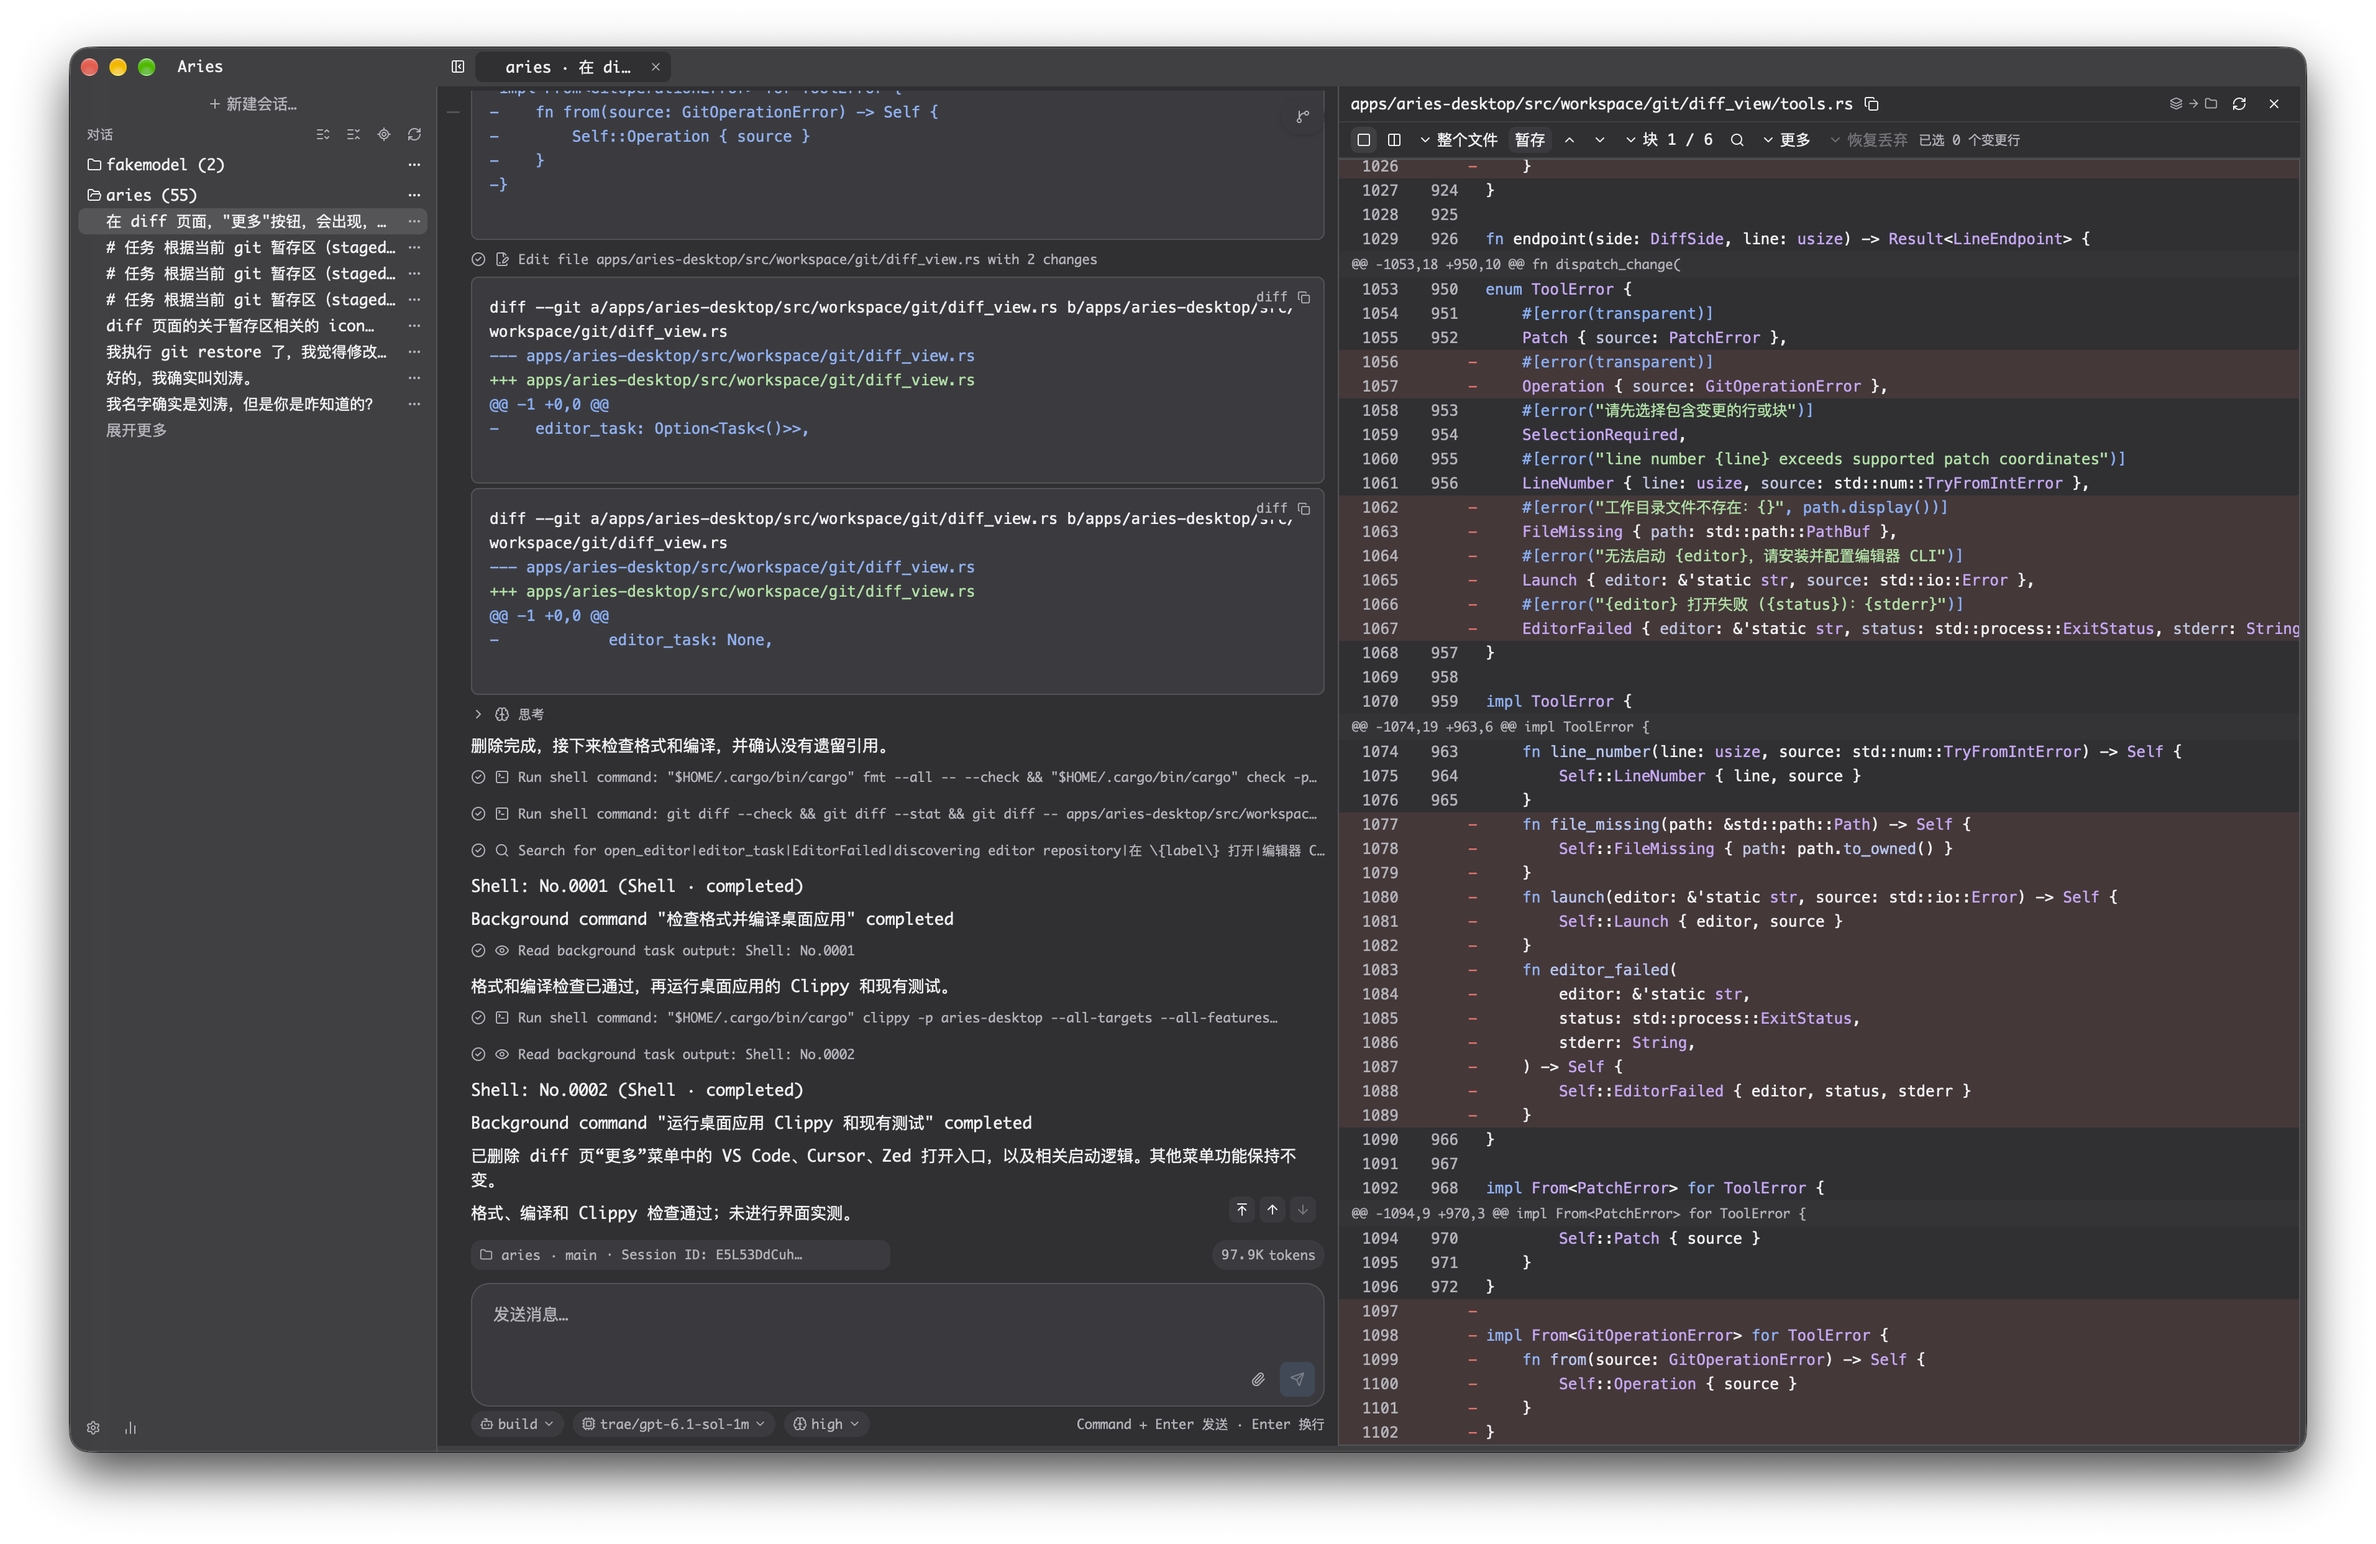
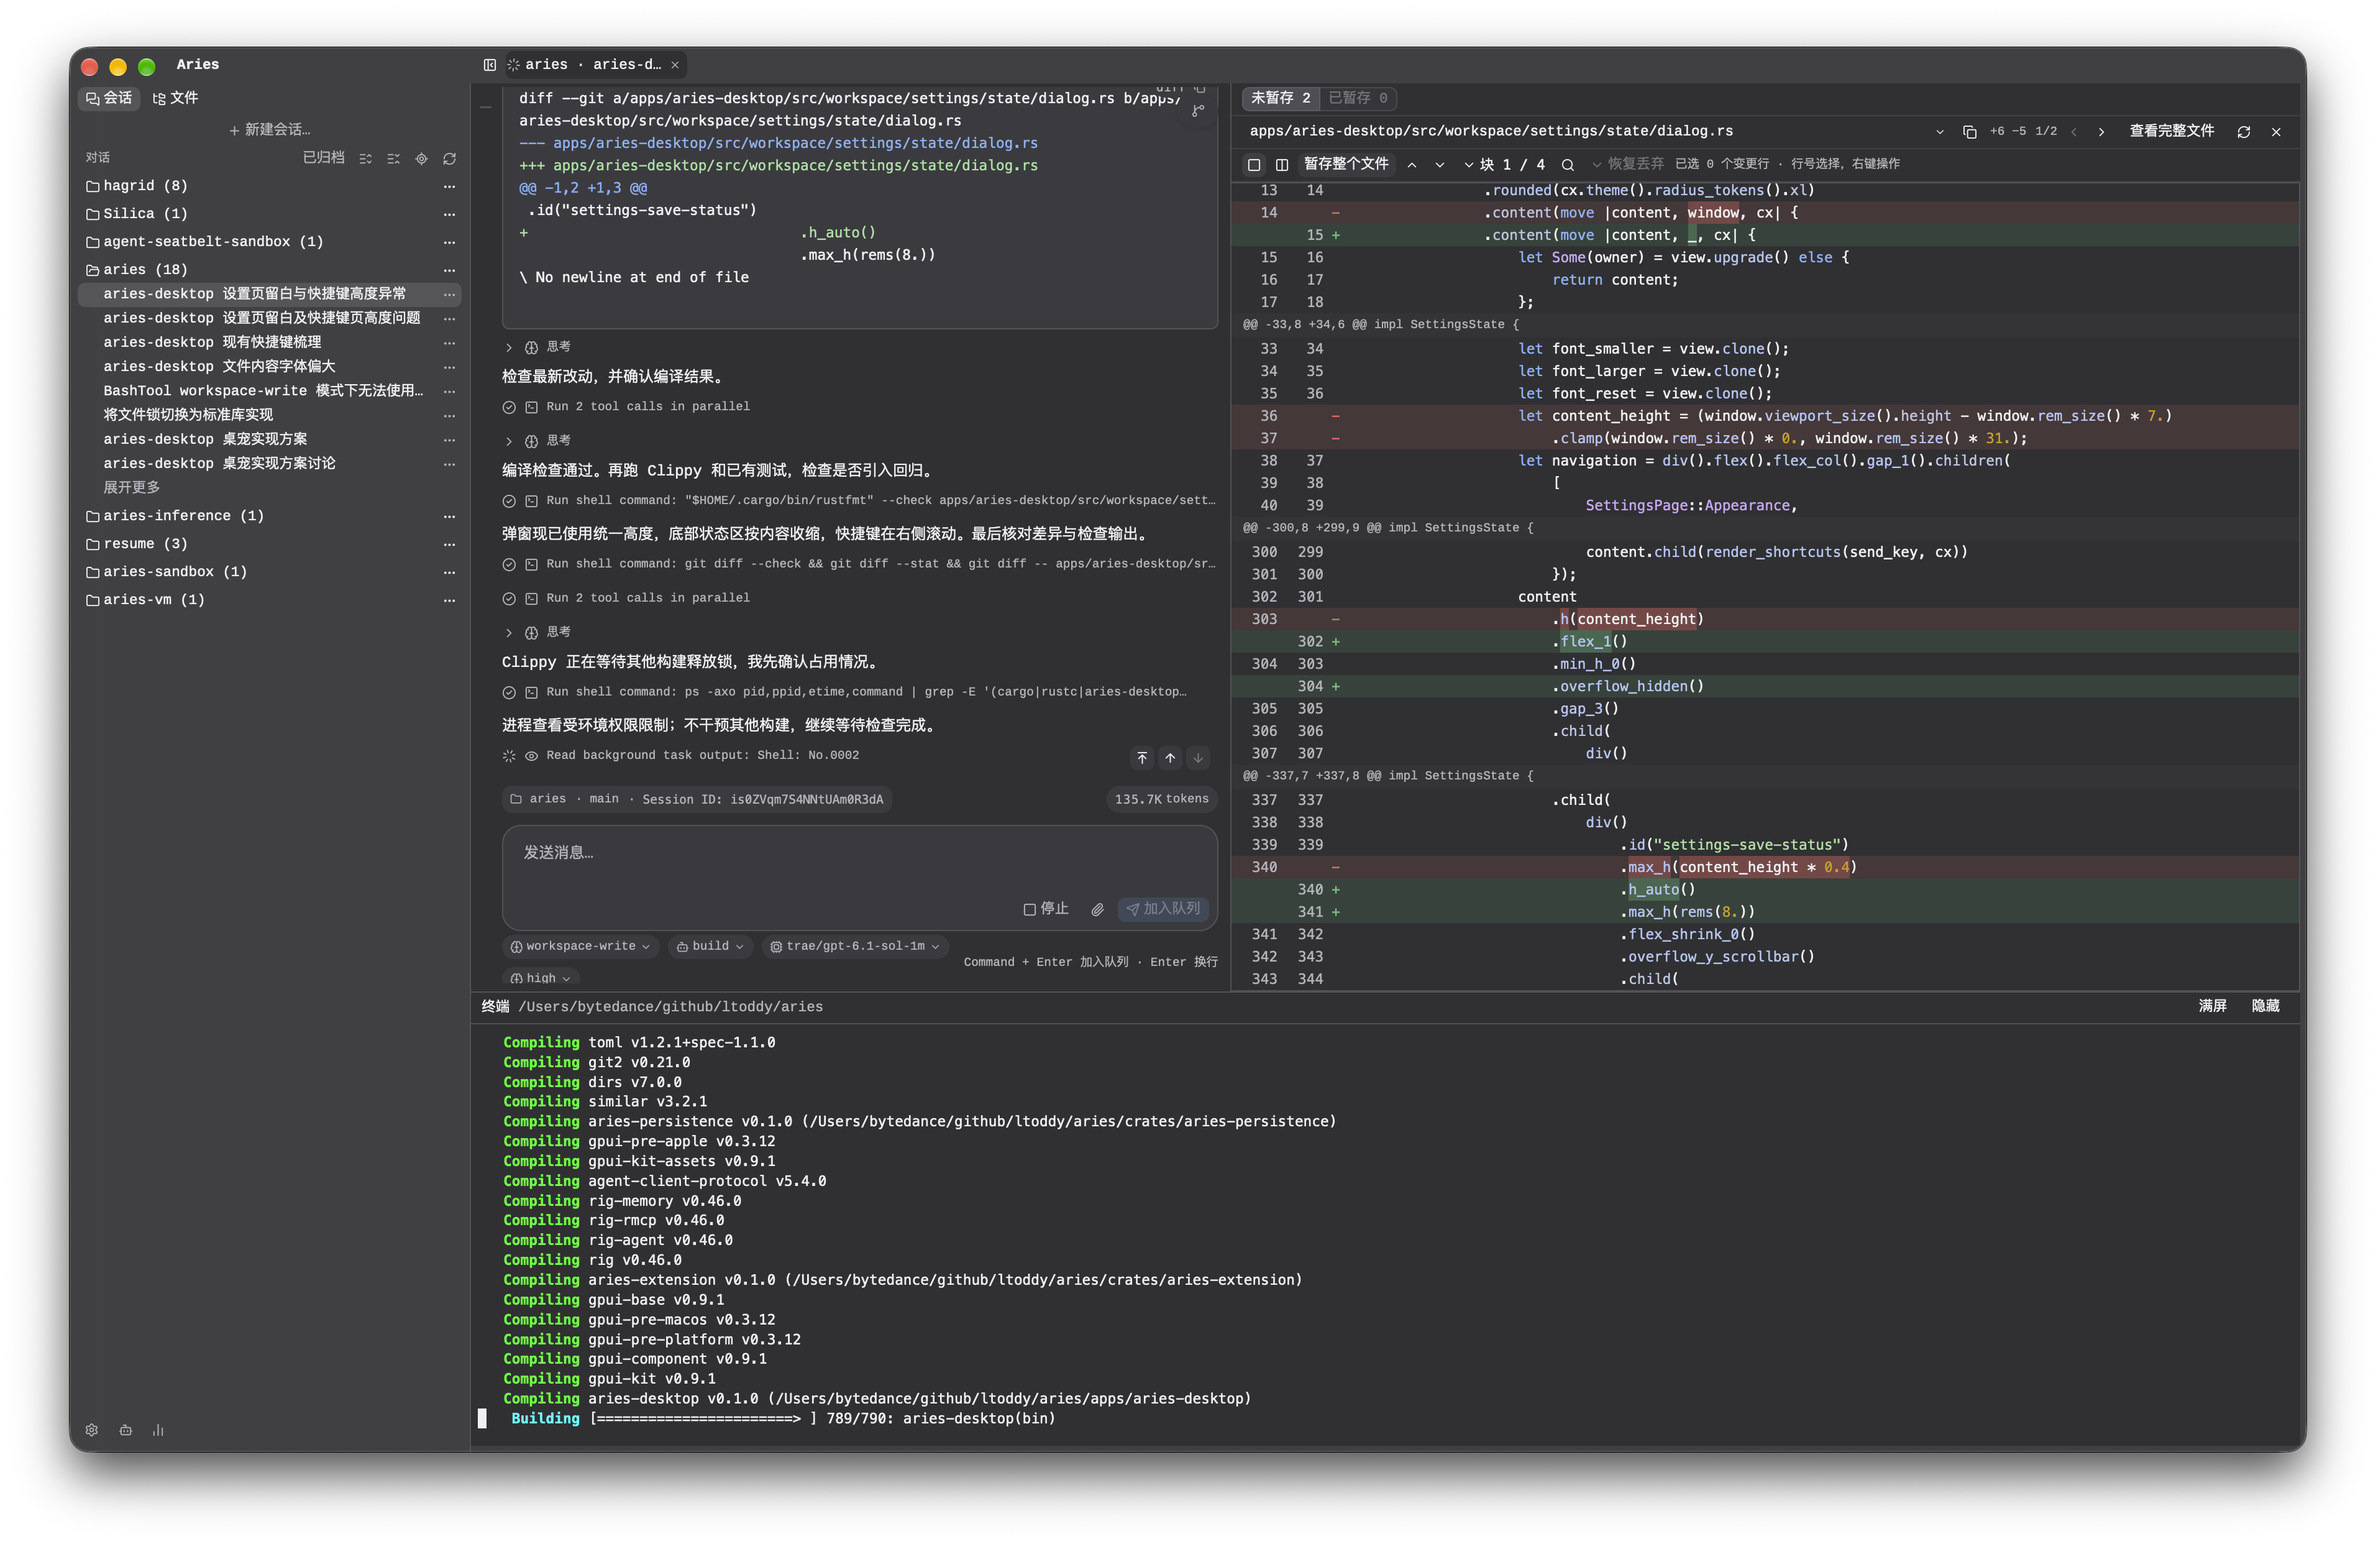
feat: persist token usage cost from ACP usage events
agent-client-protocol 5.5 reports a per-request cost breakdown, so store the
input, output, cache read/write and total cost alongside token counts to let
usage records reflect actual spend instead of only token volume. The upgraded
tool call payload requires name and raw_output, so pass them explicitly.

diff --git a/crates/aries-persistence/src/token_usage.rs b/crates/aries-persistence/src/token_usage.rs
@@ -22,6 +22,12 @@ pub struct TokenUsage {
     pub total_tokens: u64,
     pub cached_input_tokens: u64,
     pub reasoning_tokens: u64,
+
+    pub input_cost: f64,
+    pub output_cost: f64,
+    pub cache_read_cost: f64,
+    pub cache_write_cost: f64,
+    pub total_cost: f64,
 }
 
 #[derive(Clone)]
@@ -34,6 +40,7 @@ impl TokenUsageRepository {
         Self { db }
     }
 
+    #[allow(clippy::too_many_arguments)]
     pub async fn create(
         &mut self,
         cwd: impl IntoExpr<String>,
@@ -42,6 +49,11 @@ impl TokenUsageRepository {
         total_tokens: u64,
         cached_input_tokens: u64,
         reasoning_tokens: u64,
+        input_cost: f64,
+        output_cost: f64,
+        cache_read_cost: f64,
+        cache_write_cost: f64,
+        total_cost: f64,
     ) -> toasty::Result<TokenUsage> {
         TokenUsage::create()
             .cwd(cwd)
@@ -50,6 +62,11 @@ impl TokenUsageRepository {
             .total_tokens(total_tokens)
             .cached_input_tokens(cached_input_tokens)
             .reasoning_tokens(reasoning_tokens)
+            .input_cost(input_cost)
+            .output_cost(output_cost)
+            .cache_read_cost(cache_read_cost)
+            .cache_write_cost(cache_write_cost)
+            .total_cost(total_cost)
             .exec(&mut self.db)
             .await
     }

diff --git a/crates/aries-runtime/src/hooks/token_usage.rs b/crates/aries-runtime/src/hooks/token_usage.rs
@@ -38,6 +38,19 @@ impl AgentHook for TokenUsageHook {
         let cached_input_tokens = event.usage.cached_input_tokens.unwrap_or(0);
         let reasoning_tokens = event.usage.reasoning_tokens.unwrap_or(0);
 
+        let mut input_cost = 0.0_f64;
+        let mut output_cost = 0.0_f64;
+        let mut cache_read_cost = 0.0_f64;
+        let mut cache_write_cost = 0.0_f64;
+        let mut total_cost = 0.0_f64;
+        if let Some(cost) = event.usage.cost {
+            input_cost = cost.input.unwrap_or(0.0_f64);
+            output_cost = cost.output.unwrap_or(0.0_f64);
+            cache_read_cost = cost.cache_read.unwrap_or(0.0_f64);
+            cache_write_cost = cost.cache_write.unwrap_or(0.0_f64);
+            total_cost = cost.total;
+        }
+
         tokio::task::spawn(async move {
             let _ = repo
                 .create(
@@ -47,6 +60,11 @@ impl AgentHook for TokenUsageHook {
                     total_tokens,
                     cached_input_tokens,
                     reasoning_tokens,
+                    input_cost,
+                    output_cost,
+                    cache_read_cost,
+                    cache_write_cost,
+                    total_cost,
                 )
                 .await;
         });

diff --git a/crates/aries-acp/src/v1/prompt/session_update.rs b/crates/aries-acp/src/v1/prompt/session_update.rs
@@ -292,11 +292,13 @@ impl SessionUpdates {
         let kind = tool_kind(name.as_str());
 
         let tc = AcpToolCall::new(ToolCallId::new(tool_call.id.to_string()), title)
+            .name(name.as_str().to_owned())
             .kind(kind)
             .status(ToolCallStatus::InProgress)
             .content(content)
             .locations(locations)
-            .raw_input(arguments);
+            .raw_input(arguments)
+            .raw_output(None);
 
         SessionUpdate::ToolCall(tc)
     }

diff --git a/README.md b/README.md
@@ -19,56 +19,7 @@
 
 ### Aries Desktop (`aries-desktop`)
 
-![orbit](docs/assets/aries-desktop.png)
-
-以 Agent 为核心，统一承接终端、桌面与 IDE 的交互，通过上下文管理、工具执行和子智能体协作完成任务。
-
-```mermaid
-flowchart TB
-    subgraph interaction[用户交互]
-        CLI["终端助手"]
-        Desktop["桌面应用"]
-        IDE["IDE 集成"]
-    end
-
-    subgraph orchestration[智能体编排]
-        Session["会话管理<br/>消息交互 / 流式反馈 / 历史恢复"]
-        Agent["主智能体<br/>任务理解 / 推理 / 执行调度"]
-        Context["上下文管理<br/>项目指令 / 历史压缩 / 长期记忆"]
-        Subagents["子智能体<br/>任务委派 / 独立执行"]
-        Extensions["能力扩展<br/>Agents / Skills / Slash Commands / Hooks"]
-    end
-
-    subgraph execution[工具执行]
-        LocalTools["本地操作<br/>文件读写 / 代码搜索 / 命令执行 / 工作区隔离"]
-        RemoteTools["外部能力<br/>网络检索 / 网页读取 / MCP 工具"]
-    end
-
-    subgraph resources[资源与数据]
-        Models["模型服务"]
-        Workspace["本地工作区"]
-        Services["网络与 MCP 服务"]
-        Storage["本地数据<br/>会话历史 / 记忆 / 用量与执行记录"]
-    end
-
-    CLI <--> Session
-    Desktop <--> Session
-    IDE <-->|ACP| Session
-    Session <--> Agent
-    Session --> Storage
-    Agent --> Context
-    Context <--> Storage
-    Extensions --> Agent
-    Agent <--> Models
-    Agent <-->|任务与结果| Subagents
-    Agent --> LocalTools
-    Agent --> RemoteTools
-    Subagents --> LocalTools
-    Subagents --> RemoteTools
-    LocalTools --> Workspace
-    RemoteTools --> Services
-    Desktop -->|终端交互| Workspace
-```
+![desktop](docs/assets/aries-desktop.png)
 
 ## Rust toolchain
 

diff --git a/.agents/skills/gpui-kit/references/coding-guides.md b/.agents/skills/gpui-kit/references/coding-guides.md
@@ -8,7 +8,7 @@ order: -13
 
 This guide describes the application architecture and code patterns that have
 proved durable in GPUI Kit. It is written for both engineers and coding
-agents. Read [Design Guides](./design-guides.md) first: code structure should
+agents. Read [Design Guides](https://gpui-kit.com/docs/design-guides) first: code structure should
 preserve product intent, not replace it.
 
 This is a normative guide. **Must** marks lifecycle, correctness, or ecosystem
@@ -802,7 +802,7 @@ must use current, compilable APIs and show stable IDs. Document defaults,
 platform limitations, focus behavior, callback ordering, and any requirement
 to call `notify`, `emit`, or a theme synchronization method.
 
-Follow the [interface-language rules](./design-guides.md#interface-language) for
+Follow the [interface-language rules](https://gpui-kit.com/docs/design-guides#interface-language) for
 labels, commands, confirmation dialogs, capitalization, and ellipses. Keep one
 canonical term for each domain object, command, and state.
 
@@ -907,5 +907,5 @@ Before opening a change for review, confirm that:
 - tests prove behavior at the appropriate layer;
 - formatting, Clippy, targeted tests, and relevant examples pass.
 
-See [Getting Started](./getting-started.md) for application setup and the
+See [Getting Started](https://gpui-kit.com/docs/getting-started) for application setup and the
 component pages for current API details.

diff --git a/.agents/skills/gpui-kit/references/usage.md b/.agents/skills/gpui-kit/references/usage.md
@@ -131,7 +131,7 @@ Input::new(&input)
 Input::new(&input).cleanable(true)           // clear button
 Input::new(&input).disabled(true)
 Input::new(&input).prefix(Icon::new(IconName::Search).small())
-Input::new(&input).suffix(Button::new("b").ghost().icon(IconName::X).xsmall())
+Input::new(&input).suffix(Button::new("b").ghost().icon(IconName::Close).xsmall())
 Input::new(&input).content_type(InputContentType::Password)
 Input::new(&input).mask_toggle()             // password reveal toggle
 Input::new(&input).appearance(false)         // remove default border/bg

diff --git a/.agents/skills/gpui-kit-design-guides/references/design-guides.md b/.agents/skills/gpui-kit-design-guides/references/design-guides.md
@@ -965,5 +965,5 @@ the right decisions. Ask, in order:
 8. **Has it been tested in a real window?** Complete the task with real
    components, copy, and representative content—not only an ideal screenshot.
 
-Continue with [Coding Guides](./coding-guides.md) to translate these design
+Continue with [Coding Guides](https://gpui-kit.com/docs/coding-guides) to translate these design
 decisions into GPUI architecture and code.
